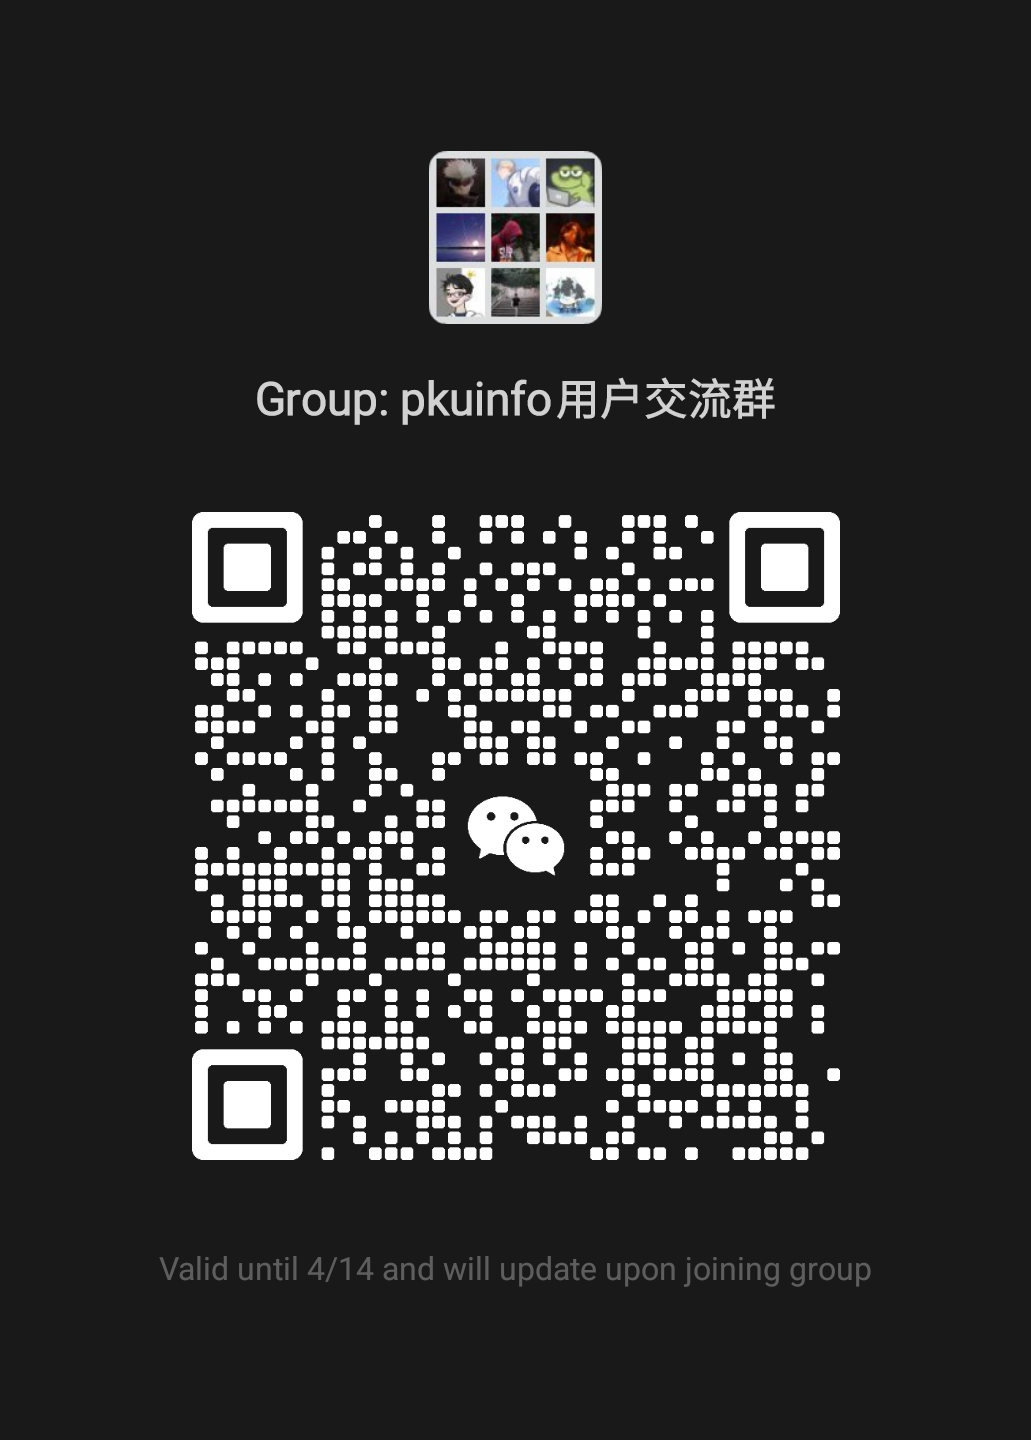
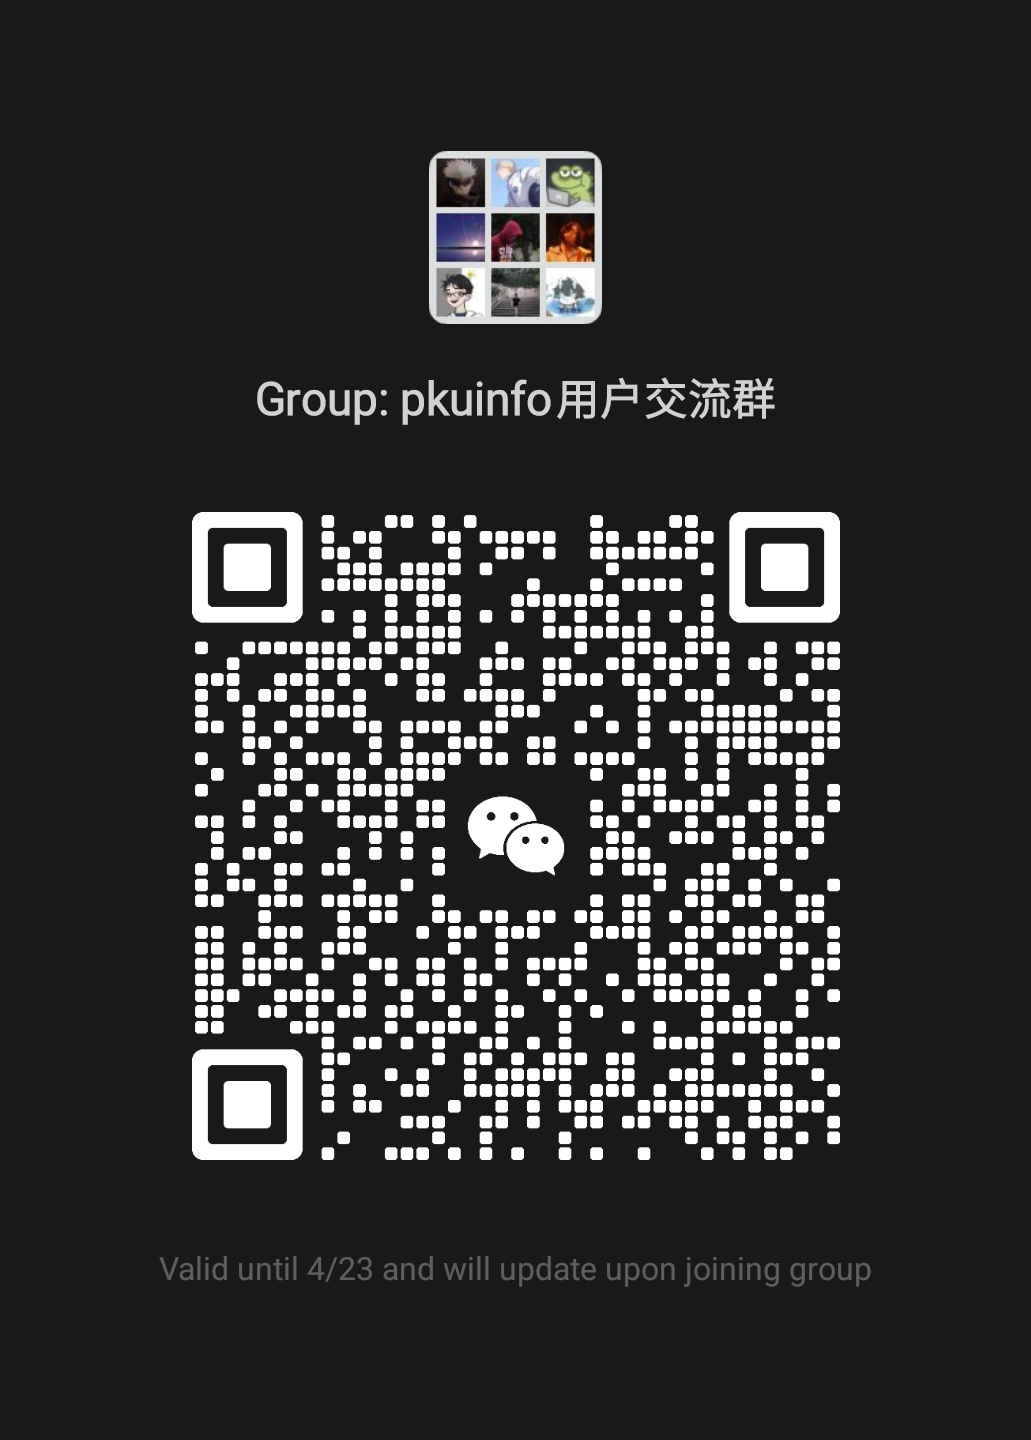
update qrcode

Changed region(s): [[0.1862, 0.3438, 0.838, 0.8125], [0.3414, 0.875, 0.3725, 0.9062]]

diff --git a/dev-dist/sw.js b/dev-dist/sw.js
@@ -79,7 +79,7 @@ define(['./workbox-b5f7729d'], (function (workbox) { 'use strict';
    */
   workbox.precacheAndRoute([{
     "url": "index.html",
-    "revision": "0.4vsi231k5d"
+    "revision": "0.q8726vgagc"
   }], {});
   workbox.cleanupOutdatedCaches();
   workbox.registerRoute(new workbox.NavigationRoute(workbox.createHandlerBoundToURL("index.html"), {
